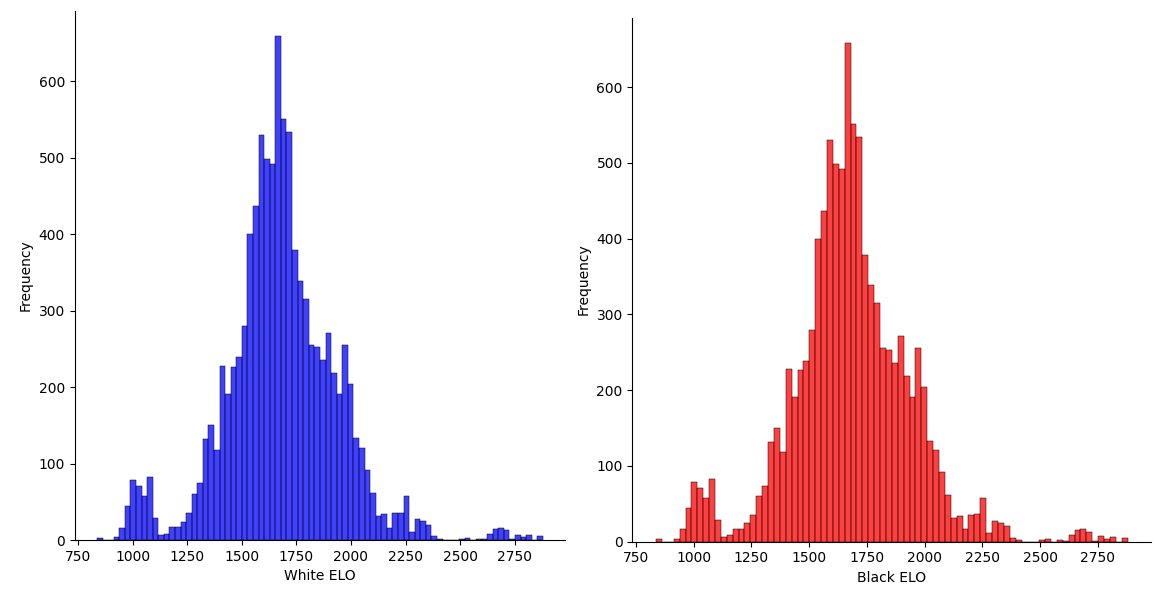
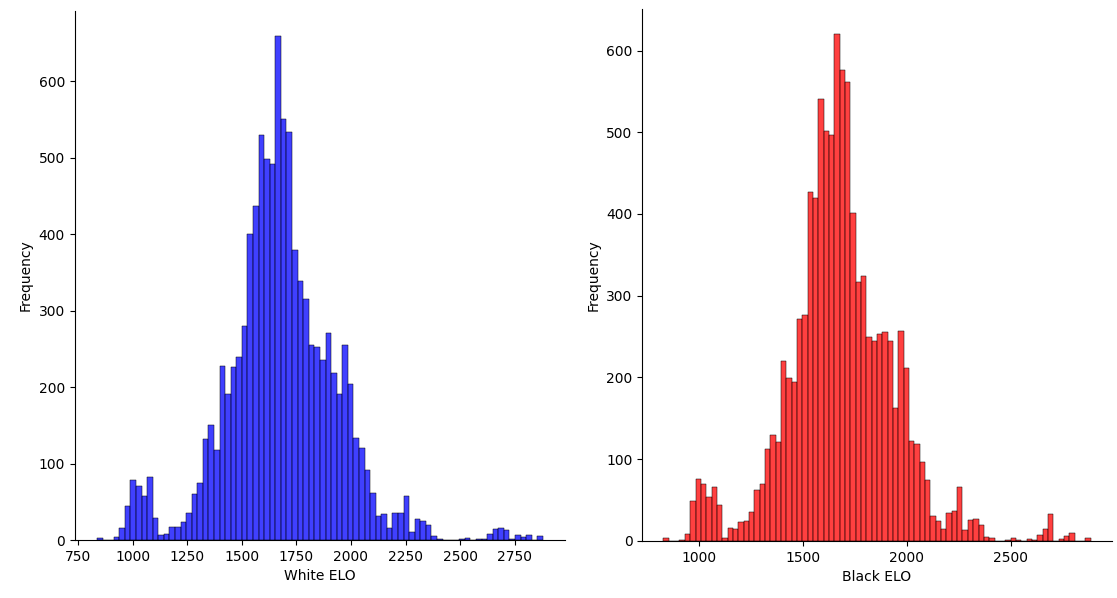
added plots for advantage

diff --git a/src/test.py b/src/test.py
@@ -12,15 +12,25 @@ TRAIN_FILE = '../data/std_train_big.clean.pgn'
 
 white_elos = []
 black_elos = []
-advantage_w = []
 
-
+advw = []
+advb = []
 
 GAMES_LIMIT = 10000
 MOVES_LIMIT = 50
 
 train_pgn = open(TRAIN_FILE)
 
+game = chess.pgn.read_game(train_pgn)
+
+board = game.board()
+
+for move in game.mainline_moves():
+    wscore = chess_utils.get_board_position_value(board, chess.WHITE, 30)
+    bscore =  chess_utils.get_board_position_value(board, chess.BLACK, 30)
+    advw.append(wscore - bscore)
+    advb.append(bscore - wscore)
+    board.push(move)
 
 
 for i in range(GAMES_LIMIT):
@@ -29,9 +39,16 @@ for i in range(GAMES_LIMIT):
     black_elos.append(int(game.headers['BlackElo']))
 
 plt.title("ELO Frequency in filtered data")
-sns.displot(white_elos, color = 'red')
-
-
+sns.displot(black_elos, color = 'red')
 plt.xlabel("Black ELO")
 plt.ylabel("Frequency")
+plt.show()
+
+
+plt.title("Game Evaulation Advantage Graph")
+plt.plot(advw, color='black', label='white advantage')
+plt.xlabel("Moves over time")
+plt.legend()
+
+plt.ylabel("Advantage in centipawns")
 plt.show()
